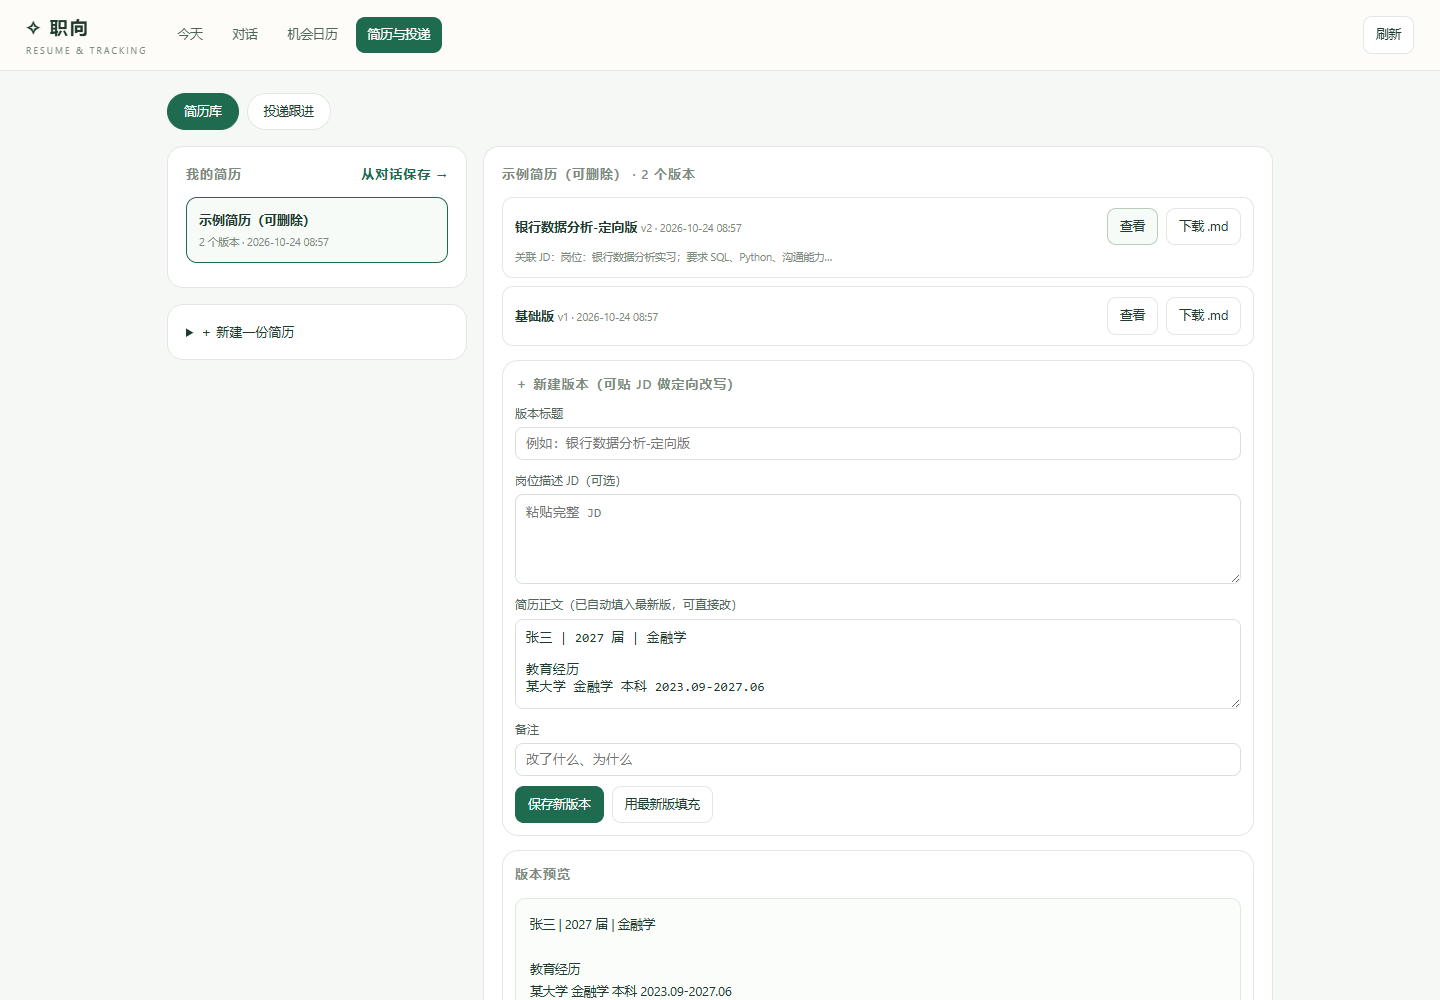
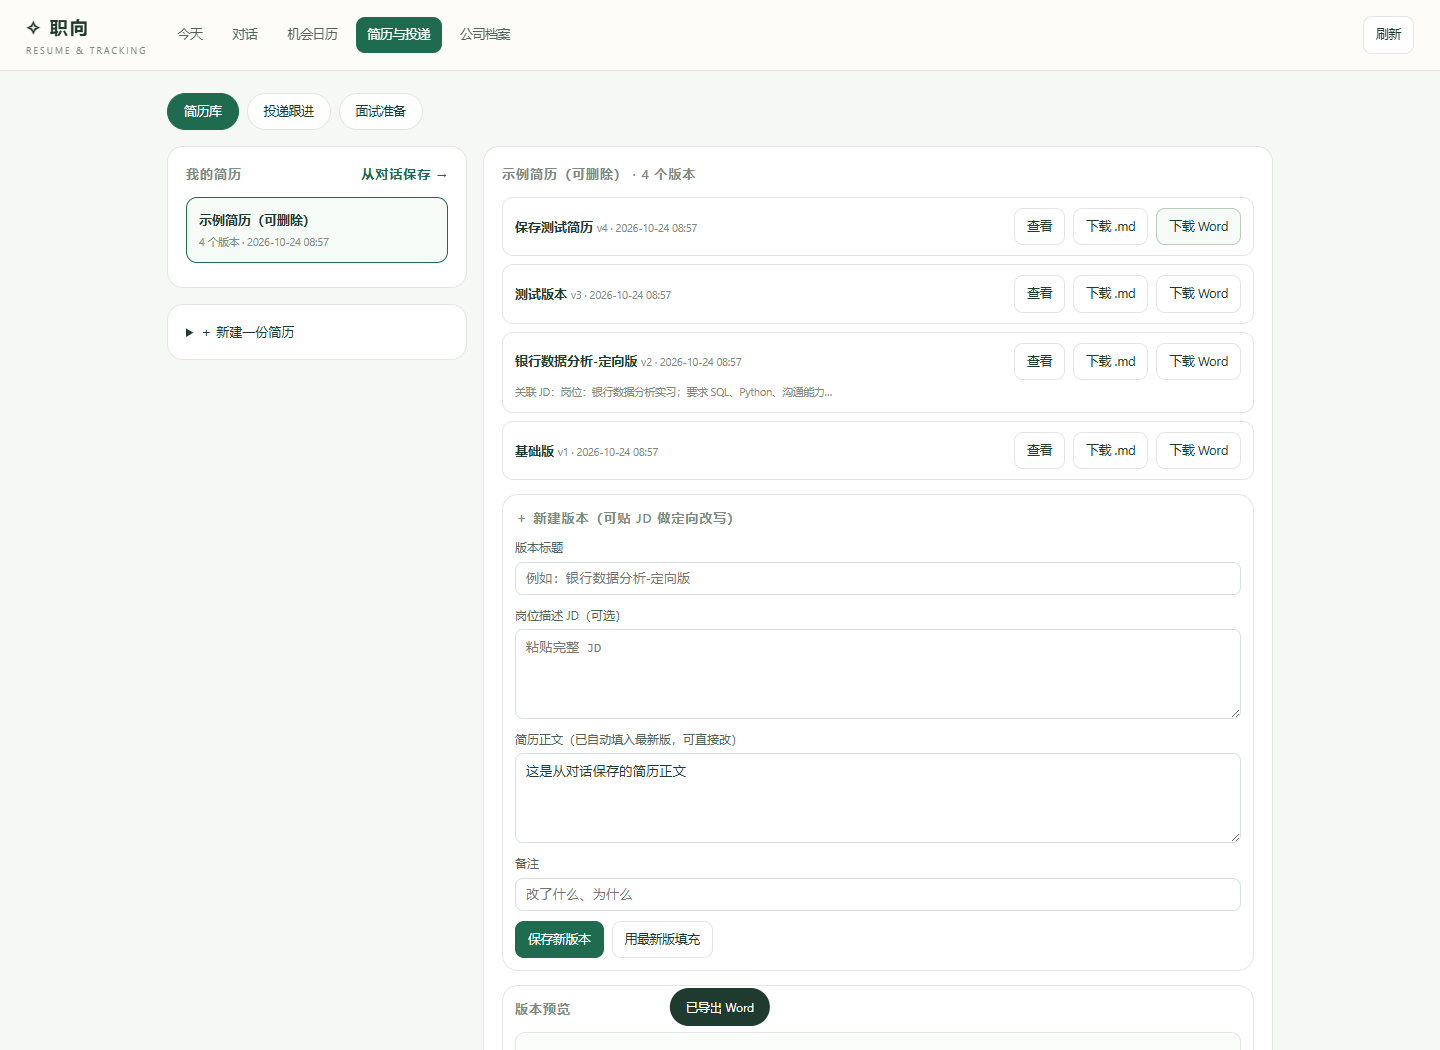
feat(resume): zero-dependency DOCX export
- add docx writer (store ZIP + WordprocessingML) with heading/list styles
- add GET /api/resumes/version/:id/docx
- add 下载 Word button per resume version with safe filename
- validate with python-docx (Heading 1 recognized) and browser download
- add 4 tests (98 total)
- update docs and requirement mapping

diff --git a/src/web/resume.html b/src/web/resume.html
@@ -202,7 +202,7 @@ function renderResumeDetail() {
   $('#resume-title').textContent = r.name + ' · ' + r.versions.length + ' 个版本';
   const versions = r.versions.map(v => `<div class="version">
     <div class="head"><div><b>${esc(v.title)}</b> <span class="meta">v${v.versionNo} · ${esc(fmt(v.createdAt))}</span></div>
-    <div class="row"><button data-view="${esc(v.id)}">查看</button><button data-download="${esc(v.id)}">下载 .md</button></div></div>
+    <div class="row"><button data-view="${esc(v.id)}">查看</button><button data-download="${esc(v.id)}">下载 .md</button><button data-docx="${esc(v.id)}">下载 Word</button></div></div>
     ${v.jdText ? '<div class="meta" style="margin-top:4px">关联 JD：' + esc(v.jdText.slice(0, 80)) + '…</div>' : ''}
   </div>`).join('');
   $('#resume-detail').innerHTML = versions +
@@ -229,8 +229,21 @@ function renderResumeDetail() {
     if (!v) return;
     const blob = new Blob([v.content], {type: 'text/markdown;charset=utf-8'});
     const u = URL.createObjectURL(blob); const a = document.createElement('a');
-    a.href = u; a.download = (v.title || 'resume') + '.md'; a.click();
+    a.href = u; a.download = (v.title || 'resume').replace(/[\\/:*?"<>|]/g, '-') + '.md'; a.click();
     setTimeout(() => URL.revokeObjectURL(u), 1500);
+  });
+  document.querySelectorAll('[data-docx]').forEach(b => b.onclick = async () => {
+    const v = r.versions.find(x => x.id === b.dataset.docx);
+    if (!v) return;
+    try {
+      const res = await fetch('/api/resumes/version/' + v.id + '/docx', {headers: {'x-career-token': TOKEN}});
+      if (!res.ok) throw new Error('导出失败');
+      const blob = await res.blob();
+      const u = URL.createObjectURL(blob); const a = document.createElement('a');
+      a.href = u; a.download = (v.title || 'resume').replace(/[\\/:*?"<>|]/g, '-') + '.docx'; a.click();
+      setTimeout(() => URL.revokeObjectURL(u), 1500);
+      toast('已导出 Word');
+    } catch (e) { toast(e.message); }
   });
   $('#new-version').onsubmit = async e => {
     e.preventDefault();

diff --git a/docs/plan/15-需求对照与演示.md b/docs/plan/15-需求对照与演示.md
@@ -17,7 +17,7 @@
 | 2.1 字段识别 | 🟡 | 公司/活动/时间/地址/岗位/投递/来源；面试环节已结构化，部分源岗位详情仍缺 |
 | 2.2 公司调研 | ✅ | 公司档案库 + 关联活动/投递；搜索服务可选 |
 | 2.3 排班 + 地图 | ✅ | 冲突/通勤/异地 + 地图链接 + ICS/CSV/MD |
-| 3.1 简历 + 面试 | ✅ | 简历多版本、JD、投递、题库与回答 |
+| 3.1 简历 + 面试 | ✅ | 简历多版本、JD、投递、题库与回答、Word 导出 |
 | 多设备 | ✅ | 局域网实测、Tailscale 文档、Dockerfile |
 | 版本控制 | ✅ | main/dev + 10 个标签可回退 |
 
@@ -142,7 +142,7 @@
 - 面试准备（流程、题库、回答）；
 - 只读工具 `resume_list/read`、`interview_list/read`；
 - 禁止编造：提示词明确，保存由用户点按钮；
-- 🟡 `.docx` 导出未做（当前 `.md`）。
+- ✅ `.docx` 导出：标题/列表转基础样式，可用 Word/WPS 继续编辑。
 
 ---
 
@@ -154,7 +154,7 @@
 - 跨网络：Tailscale 文档；
 - 容器：Dockerfile + compose（本机无 Docker，未实测）；
 - 备份：`node scripts/backup.mjs`（实测 1062 文件 / 104.4 MB）；
-- 版本：`main` / `dev` + 标签 `v3.0.0-phase0 / m6 / m8 / m7 / m2m4 / m9 / m5 / m11 / m11b / m12 / m13 / m14 / m15`。
+- 版本：`main` / `dev` + 标签 `v3.0.0-phase0 / m6 / m8 / m7 / m2m4 / m9 / m5 / m11 / m11b / m12 / m13 / m14 / m15 / m16`。
 
 ---
 
@@ -164,14 +164,14 @@
 2. **采集**（75 秒）：`/recruit` → 信息源 13 个 → 点采集 → 看新增/失败原因 → 「公众号/手动导入」粘贴一段推文正文 → 解析 → 保存 → 打开活动看来源、地图、环节标签。
 3. **排班**（45 秒）：切到行程 → 指冲突/赶场提示 → 导出 ICS → 手机日历导入。
 4. **对话**（90 秒）：`/chat` 问“帮我排这周行程，标出冲突” → 显示技能“行程规划”与工具调用 → 再问“按这个 JD 改简历”。
-5. **材料**（60 秒）：`/resume` → 简历版本 → 从对话保存 → 投递阶段 → 面试准备题库与回答。
-6. **可靠性与回退**（30 秒）：`npm test` 94 项；`git tag` 列表；一条命令回退。
+5. **材料**（60 秒）：`/resume` → 简历版本 → 从对话保存 → 下载 Word → 投递阶段 → 面试准备题库与回答。
+6. **可靠性与回退**（30 秒）：`npm test` 98 项；`git tag` 列表；一条命令回退。
 
 ---
 
 ## 12. 已知缺口（按优先级）
 
-1. **`.docx` 导出**（3.1）；
-2. 电子科大/成都理工/西南石油等校适配。
+1. 电子科大/成都理工/西南石油等校适配；
+2. 语音模拟面试（题库与回答已落库）。
 
 > 这些缺口都不影响现有演示：页面会明确显示“未接入/未公布”，不会把缺失伪装成有数据。

diff --git a/docs/plan/13-简历与投递.md b/docs/plan/13-简历与投递.md
@@ -11,7 +11,7 @@
 
 - 一份简历可以有多个版本：基础版 + 每个岗位一个定向版；
 - 每个版本可带 **JD** 和备注，方便回看"当时为什么这么改"；
-- 支持新建、查看、下载 `.md`、删除整份简历；
+- 支持新建、查看、下载 `.md` / `.docx`、删除整份简历；
 - 从对话生成的文稿可以一键存入：聊天里点「保存为简历」→ 自动进入 `/resume`。
 
 数据结构：
@@ -84,6 +84,7 @@ interview_preps(id, company, role, jd_text, content,
 | POST | `/api/resumes/<id>/versions` | 新增版本 |
 | POST | `/api/resumes/from-session` | 把对话文稿存为版本 |
 | POST | `/api/resumes/<id>/delete` | 删除整份简历 |
+| GET | `/api/resumes/version/<versionId>/docx` | 导出可编辑 Word |
 | GET | `/api/applications` | 投递列表 + 阶段 |
 | POST | `/api/applications` | 新增/更新投递 |
 | POST | `/api/applications/<id>/delete` | 删除 |
@@ -111,17 +112,19 @@ interview_preps(id, company, role, jd_text, content,
 ## 7. 验证
 
 - 10 项简历/投递/面试测试：创建、版本递增、校验、投递阶段、CSV、from-session、工具读取、面试题目与回答；
+- 4 项 Word 测试：ZIP 结构、Markdown 转换/转义、zip 回读、按版本导出；
+- Word 导出实测：python-docx 能打开，标题识别为 Heading 1，列表保留；浏览器下载 `.docx` 成功；
 - 浏览器实测：简历 1 份 2 版 → 新建版本变 3 版 → 对话保存变 4 版；投递 1 行，改阶段/删除正常；
 - 面试准备：3 道题，填写回答后保存 → 刷新仍在；从对话保存后列表变 2 条；
 - 能力面板：10 工具 / 4 技能；
-- 80 项测试通过，页面无 JS 报错。
+- 98 项测试通过，页面无 JS 报错。
 
 ---
 
 ## 8. 已知边界
 
 - 不能删除单个简历版本（只能删整份简历）；
-- 不支持 `.docx` 导出（当前 `.md`/纯文本）；
+- 不支持复杂排版（Word 导出把标题/列表转成基础样式，复杂表格需再调）；
 - 投递记录不能绑定到具体简历版本（字段已留 `resume_version_id`，界面下一版补）；
 - 面试准备是"资料 + 题库 + 回答"，没有语音模拟面试与自动追问；
 - 没有自动投递、不会代发消息。

diff --git a/README.md b/README.md
@@ -1,7 +1,7 @@
 # 职向 v3 · 大学生线下求职智能体
 
-> **当前状态：公司档案、公众号导入、求职材料、部署备份均已完成；剩余 .docx 与更多高校源。**
-> 进度与回退：[CHANGELOG](docs/plan/CHANGELOG.md) · [需求对照与演示](docs/plan/15-需求对照与演示.md) · [公司档案](docs/plan/17-公司档案.md) · [v3 方案](docs/plan/01-v3重构方案.md)
+> **当前状态：简历 Word 导出已完成（3.1 收尾）；剩余高校源适配与语音模拟面试。**
+> 进度与回退：[CHANGELOG](docs/plan/CHANGELOG.md) · [需求对照与演示](docs/plan/15-需求对照与演示.md) · [简历与投递](docs/plan/13-简历与投递.md) · [v3 方案](docs/plan/01-v3重构方案.md)
 > 数据目录：`%LOCALAPPDATA%\ZhiXiang`（首次启动会自动迁移旧 `.data`）
 
 > 从高校就业网采集真实的宣讲会 / 双选会 → 整理成可导入手机日历的行程表 → 结合岗位改简历、做面试准备。

diff --git a/docs/plan/CHANGELOG.md b/docs/plan/CHANGELOG.md
@@ -3,6 +3,18 @@
 > 每个阶段一行，方便你对照"什么时候改了什么、能不能回退"。
 > 回退：`git checkout <tag>` 或 `git reset --hard <tag>`（数据在 `%LOCALAPPDATA%\ZhiXiang`，不受影响）。
 
+## v3.0.0-m16 · 2026-10-24
+
+**3.1 收尾：简历 Word 导出**
+
+- 新增 `src/resume/docx.mjs`：零依赖 ZIP + WordprocessingML 生成 DOCX
+- 标题/二级标题/列表/普通段落转 Word 样式，XML 转义与中文正常
+- 新增 `GET /api/resumes/version/<id>/docx`；简历版本卡加「下载 Word」
+- 下载文件名自动去掉非法字符
+- 新增 `tests/docx.test.mjs`（4 项），共 98 项测试
+- 实测：python-docx 能打开，标题识别 Heading 1，列表保留；浏览器下载成功
+- 回退：`git reset --hard v3.0.0-m15`
+
 ## v3.0.0-m15 · 2026-10-24
 
 **2.2 公司档案**

diff --git a/docs/plan/01-v3重构方案.md b/docs/plan/01-v3重构方案.md
@@ -346,7 +346,7 @@ src/skills/resume-tailoring/
 
 - [x] 4 个技能包 —— M7 已完成
 - [x] 三层记忆 + 面板 —— M8 已完成
-- [x] 简历版本 / JD 对照（docx 待后续）—— M11 第一版
+- [x] 简历版本 / JD 对照（docx 已补）—— M11
 - [x] 投递跟进看板 —— M11 第一版
 - [x] 面试准备/模拟（题库与回答已落库；语音模拟待后续）
 
